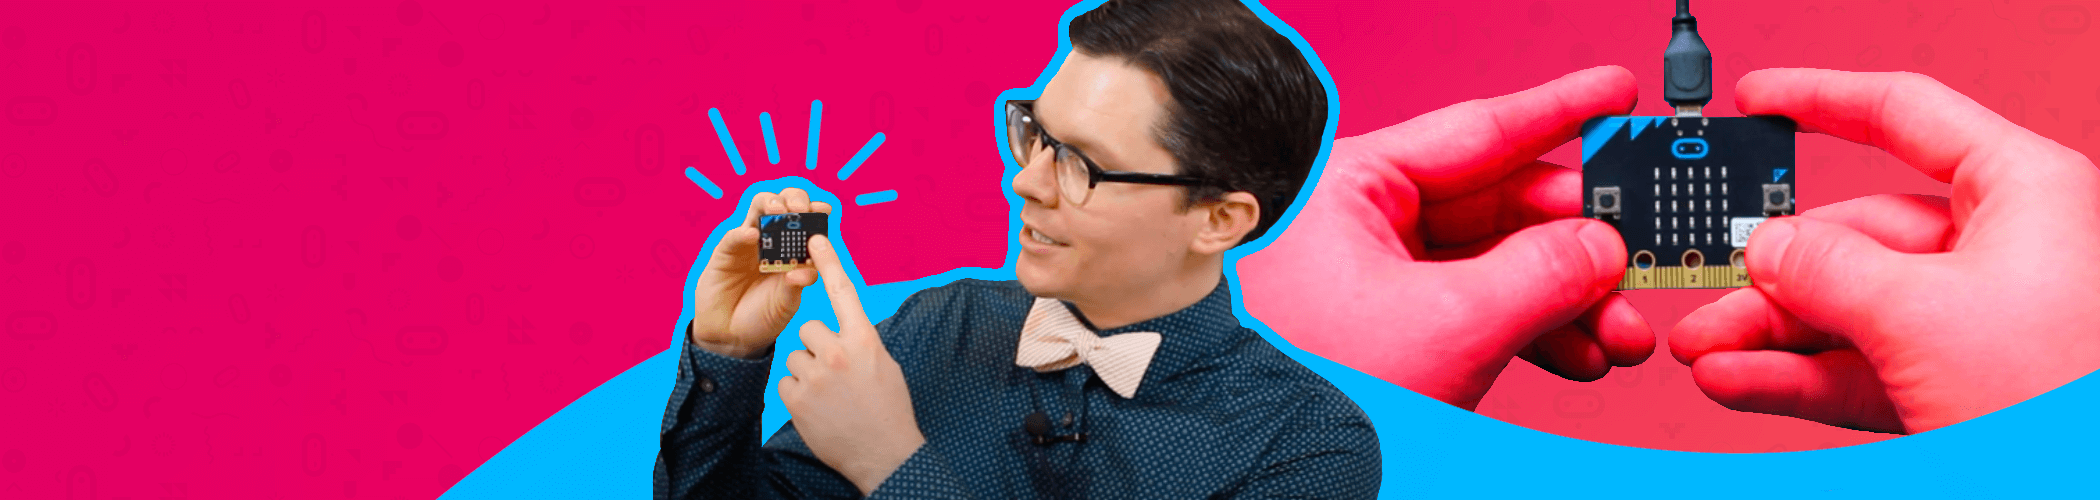
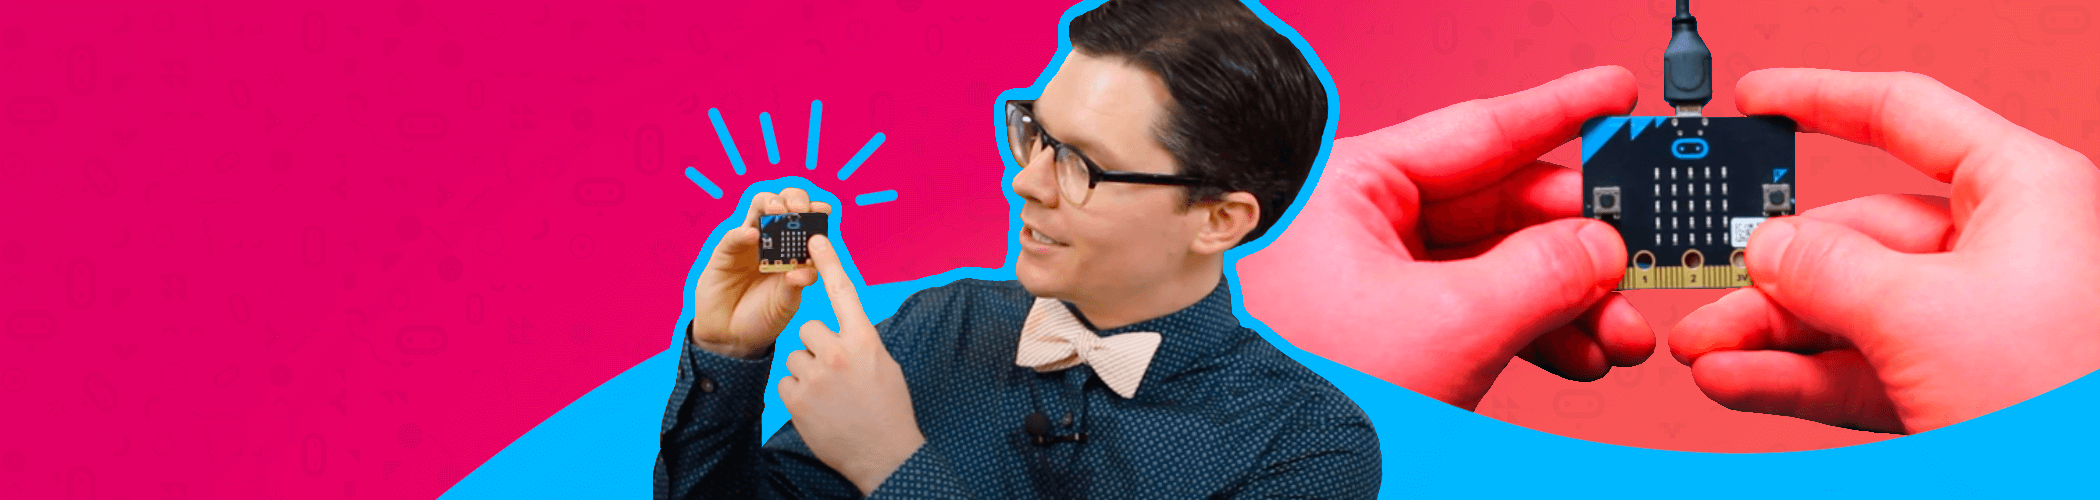
update hero gallery images and datalogger imgs (#4180)

diff --git a/docs/hero-banner.md b/docs/hero-banner.md
@@ -24,6 +24,6 @@ Here are some cool activities to get you started with your @boardname@!
 ---
 * name: Soil Moisture Project
 * description: Track the soil moisture of your plants!
-* imageUrl: /static/herogallery/intro-to-microbit.png
+* imageUrl: /static/herogallery/soil-moisture.png
 * url: /projects/soil-moisture
 ### ~
